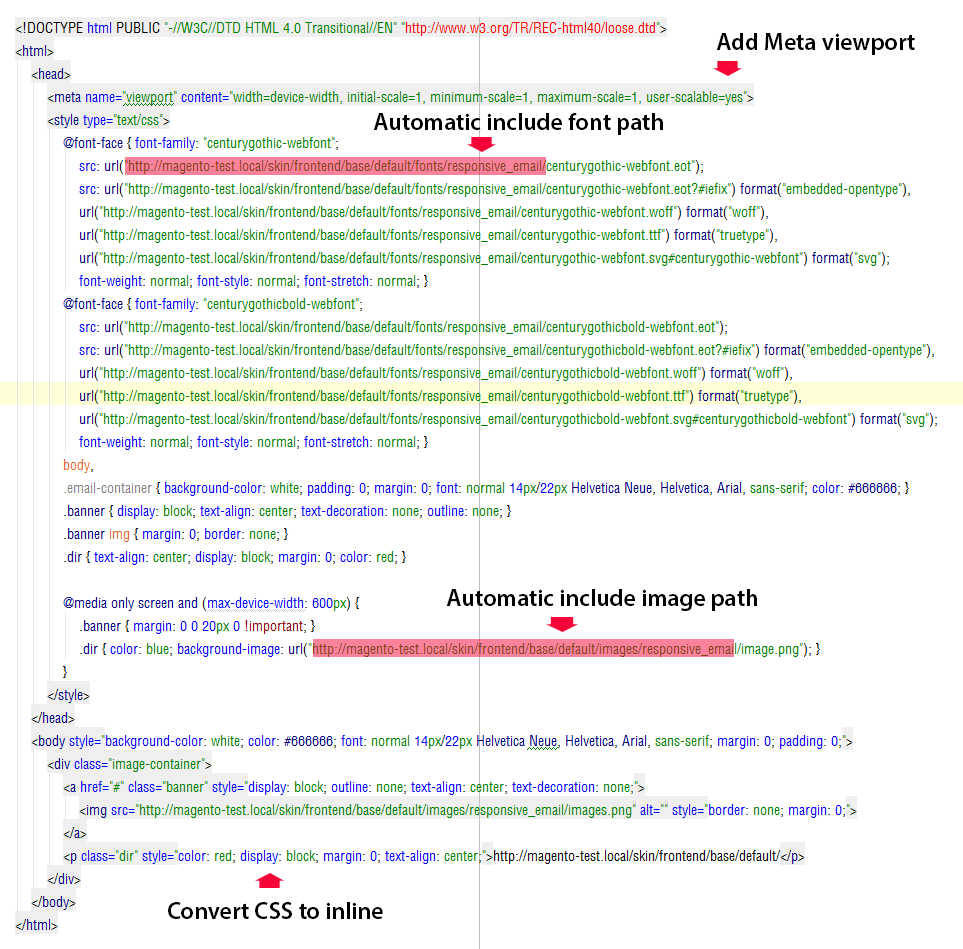
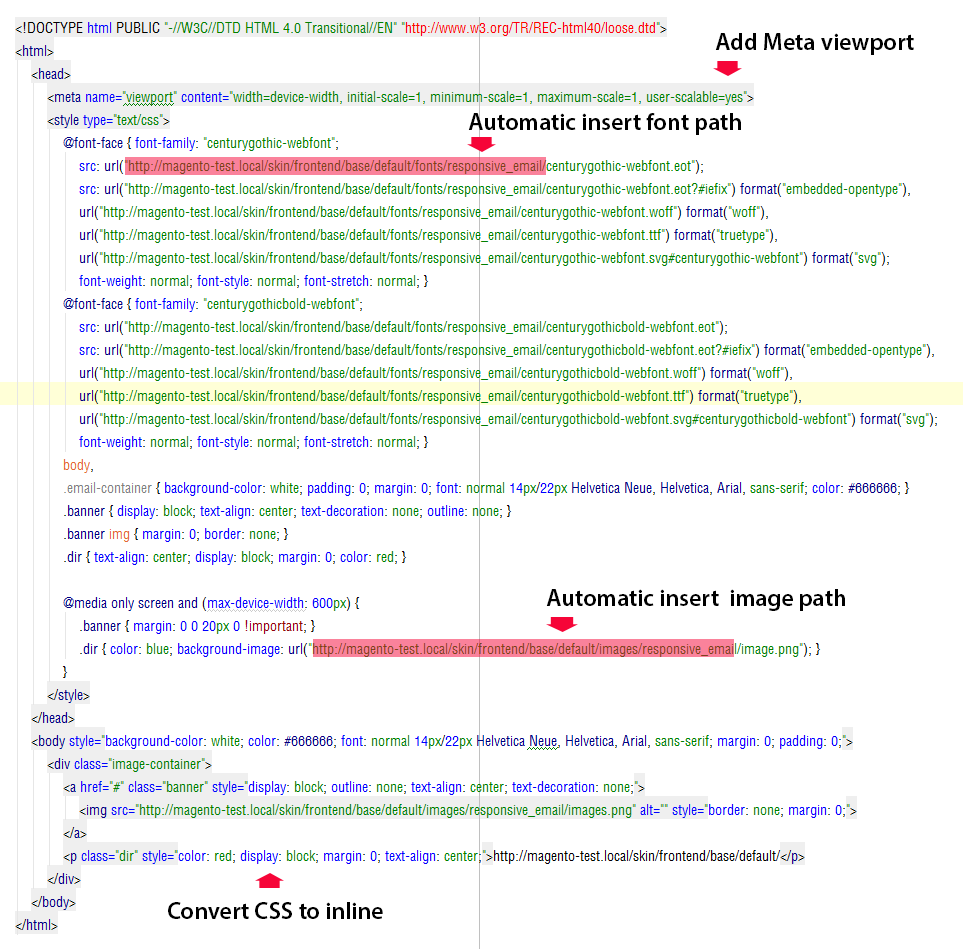
update guide

Changed region(s): [[0.4673, 0.6112, 0.8723, 0.6417], [0.3738, 0.1222, 0.7788, 0.1528], [0.7477, 0.0306, 0.9346, 0.0611]]

diff --git a/README.md b/README.md
@@ -4,6 +4,18 @@
 
 This module automatically converts an external set of stylesheets to inline CSS for transactional email templates, to make it easier to write and maintain them.
 
+#### Features
+
+*   Module enable/disable
+*   Directory config
+*   Add viewport & config
+*   Add new variable
+    > {{var edm_image}} - get image path
+    > {{var edm_path}} - get base url
+*   Automatic convert CSS to inline
+*   Automatic insert CSS to Template Styles field
+*   Automatic insert font path & background image path
+
 #### Customization
 
 You can add your own stylesheet to add some customization on top of our base CSS by going into *System* > *Configuration* > *System* > *Email Responsive - Settings*.
